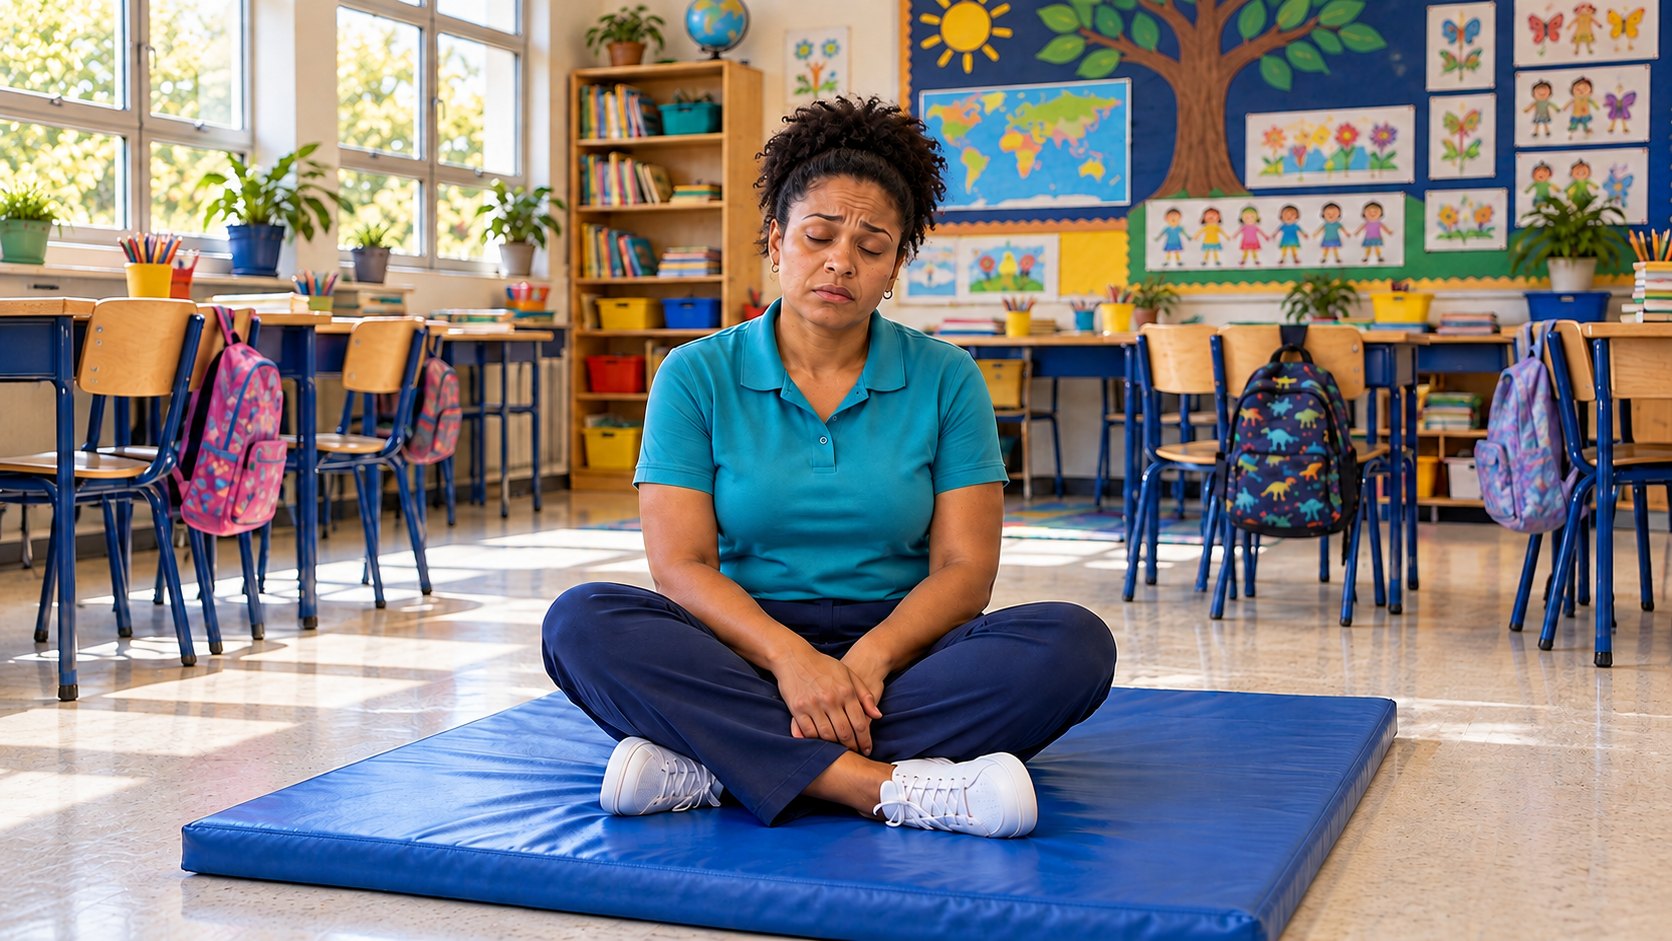
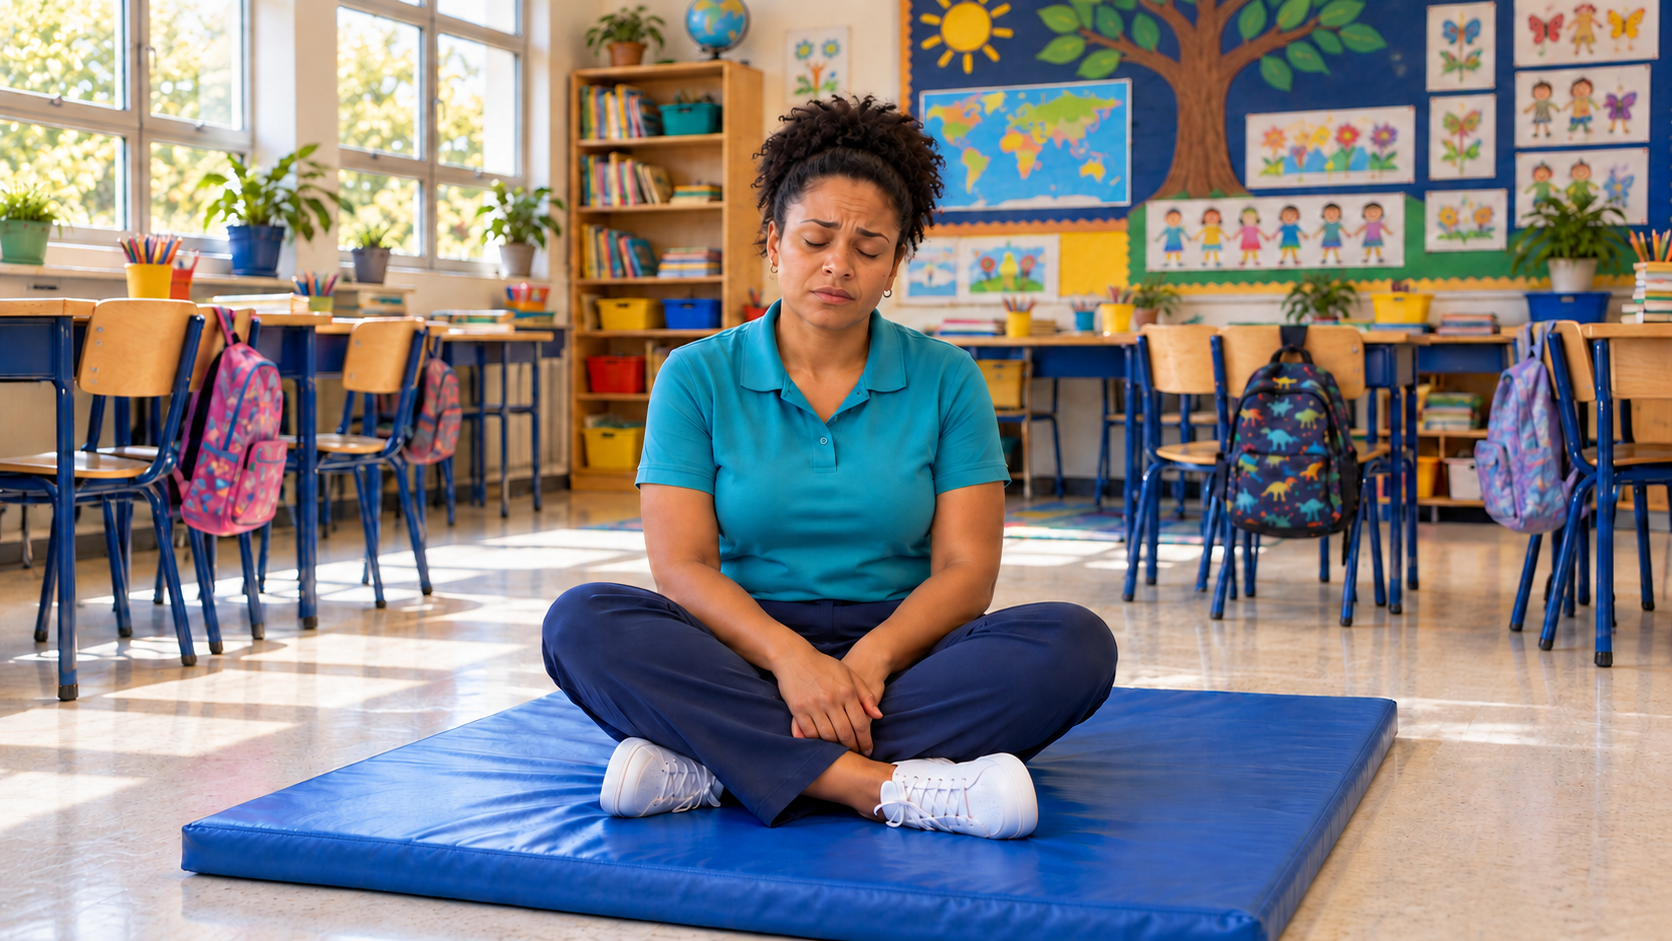
Refine teacher face and align school patient eyelids

diff --git a/public/simulador/personagens/escola-horizontal-v20261023/todos.html b/public/simulador/personagens/escola-horizontal-v20261023/todos.html
@@ -86,13 +86,13 @@
       <article class="card" data-group="adultos" data-pose="sentada"><div class="card-head"><div><h2>Professora</h2><p>Equipe pedagógica</p></div><span class="pose-tag">Sentada</span></div><div class="patient" style="--chest-x:49%;--chest-y:48%;--chest-rx:12%;--chest-ry:10%;--eye-left-x:48.7%;--eye-left-y:25.4%;--eye-right-x:51.7%;--eye-right-y:25.7%;--eye-rx:2.5%;--eye-ry:2.4%;--blink-delay:-0.2s"><img src="professora-sentada.png" alt="Professora sentada na sala de aula"><img class="chest" src="professora-sentada.png" alt="" aria-hidden="true"><img class="blink" src="blink/professora-sentada-olhos-fechados.png" alt="" aria-hidden="true"></div><div class="card-controls"><button type="button" data-command="pause">Ⅱ Pausar</button><button type="button" data-command="breath" aria-pressed="true">Pausar respiração</button><button type="button" data-command="blink" aria-pressed="true">Pausar piscadas</button><button type="button" data-command="blink-now">Piscar agora</button><button type="button" data-command="eyes" aria-pressed="false">Manter olhos fechados</button><span class="command-state">Controle individual pronto</span></div></article>
       <article class="card" data-group="adultos" data-pose="deitada"><div class="card-head"><div><h2>Professora</h2><p>Equipe pedagógica</p></div><span class="pose-tag">Deitada</span></div><div class="patient" style="--chest-x:47%;--chest-y:40%;--chest-rx:14%;--chest-ry:9%;--eye-left-x:42.5%;--eye-left-y:21.8%;--eye-right-x:45.5%;--eye-right-y:20%;--eye-rx:2.6%;--eye-ry:2.5%;--blink-delay:-1.1s"><img src="professora-deitada.png" alt="Professora deitada no colchonete escolar"><img class="chest" src="professora-deitada.png" alt="" aria-hidden="true"><img class="blink" src="blink/professora-deitada-olhos-fechados.png" alt="" aria-hidden="true"></div><div class="card-controls"><button type="button" data-command="pause">Ⅱ Pausar</button><button type="button" data-command="breath" aria-pressed="true">Pausar respiração</button><button type="button" data-command="blink" aria-pressed="true">Pausar piscadas</button><button type="button" data-command="blink-now">Piscar agora</button><button type="button" data-command="eyes" aria-pressed="false">Manter olhos fechados</button><span class="command-state">Controle individual pronto</span></div></article>
       <article class="card" data-group="adultos" data-pose="sentada"><div class="card-head"><div><h2>Zelador</h2><p>Equipe de apoio</p></div><span class="pose-tag">Sentado</span></div><div class="patient" style="--chest-x:49%;--chest-y:43%;--chest-rx:13%;--chest-ry:10%;--eye-left-x:46.3%;--eye-left-y:21%;--eye-right-x:49%;--eye-right-y:20.7%;--eye-rx:2.5%;--eye-ry:2.5%;--blink-delay:-2s"><img src="zelador-sentado.png" alt="Zelador sentado no corredor escolar"><img class="chest" src="zelador-sentado.png" alt="" aria-hidden="true"><img class="blink" src="blink/zelador-sentado-olhos-fechados.png" alt="" aria-hidden="true"></div><div class="card-controls"><button type="button" data-command="pause">Ⅱ Pausar</button><button type="button" data-command="breath" aria-pressed="true">Pausar respiração</button><button type="button" data-command="blink" aria-pressed="true">Pausar piscadas</button><button type="button" data-command="blink-now">Piscar agora</button><button type="button" data-command="eyes" aria-pressed="false">Manter olhos fechados</button><span class="command-state">Controle individual pronto</span></div></article>
-      <article class="card" data-group="adultos" data-pose="deitada"><div class="card-head"><div><h2>Zelador</h2><p>Equipe de apoio</p></div><span class="pose-tag">Deitado</span></div><div class="patient" style="--chest-x:49%;--chest-y:41%;--chest-rx:14%;--chest-ry:9%;--eye-left-x:44.2%;--eye-left-y:22.8%;--eye-right-x:47.1%;--eye-right-y:21.8%;--eye-rx:3.5%;--eye-ry:3.2%;--blink-delay:-2.9s"><img src="zelador-deitado.png" alt="Zelador deitado no corredor escolar"><img class="chest" src="zelador-deitado.png" alt="" aria-hidden="true"><img class="blink" src="blink/zelador-deitado-olhos-fechados.png" alt="" aria-hidden="true"></div><div class="card-controls"><button type="button" data-command="pause">Ⅱ Pausar</button><button type="button" data-command="breath" aria-pressed="true">Pausar respiração</button><button type="button" data-command="blink" aria-pressed="true">Pausar piscadas</button><button type="button" data-command="blink-now">Piscar agora</button><button type="button" data-command="eyes" aria-pressed="false">Manter olhos fechados</button><span class="command-state">Controle individual pronto</span></div></article>
+      <article class="card" data-group="adultos" data-pose="deitada"><div class="card-head"><div><h2>Zelador</h2><p>Equipe de apoio</p></div><span class="pose-tag">Deitado</span></div><div class="patient" style="--chest-x:49%;--chest-y:41%;--chest-rx:14%;--chest-ry:9%;--eye-left-x:44.2%;--eye-left-y:25.4%;--eye-right-x:47.1%;--eye-right-y:24.4%;--eye-rx:3.5%;--eye-ry:3.2%;--blink-delay:-2.9s"><img src="zelador-deitado.png" alt="Zelador deitado no corredor escolar"><img class="chest" src="zelador-deitado.png" alt="" aria-hidden="true"><img class="blink" src="blink/zelador-deitado-olhos-fechados.png" alt="" aria-hidden="true"></div><div class="card-controls"><button type="button" data-command="pause">Ⅱ Pausar</button><button type="button" data-command="breath" aria-pressed="true">Pausar respiração</button><button type="button" data-command="blink" aria-pressed="true">Pausar piscadas</button><button type="button" data-command="blink-now">Piscar agora</button><button type="button" data-command="eyes" aria-pressed="false">Manter olhos fechados</button><span class="command-state">Controle individual pronto</span></div></article>
       <article class="card" data-group="criancas" data-pose="sentada"><div class="card-head"><div><h2>Criança menina</h2><p>Idade escolar</p></div><span class="pose-tag">Sentada</span></div><div class="patient" style="--chest-x:50%;--chest-y:48%;--chest-rx:10%;--chest-ry:9%;--eye-left-x:48.3%;--eye-left-y:29.6%;--eye-right-x:52%;--eye-right-y:29%;--eye-rx:2.5%;--eye-ry:2.5%;--blink-delay:-3.7s"><img src="crianca-menina-sentada.png" alt="Criança menina sentada na sala de aula"><img class="chest" src="crianca-menina-sentada.png" alt="" aria-hidden="true"><img class="blink" src="blink/crianca-menina-sentada-olhos-fechados.png" alt="" aria-hidden="true"></div><div class="card-controls"><button type="button" data-command="pause">Ⅱ Pausar</button><button type="button" data-command="breath" aria-pressed="true">Pausar respiração</button><button type="button" data-command="blink" aria-pressed="true">Pausar piscadas</button><button type="button" data-command="blink-now">Piscar agora</button><button type="button" data-command="eyes" aria-pressed="false">Manter olhos fechados</button><span class="command-state">Controle individual pronto</span></div></article>
       <article class="card" data-group="criancas" data-pose="deitada"><div class="card-head"><div><h2>Criança menina</h2><p>Idade escolar</p></div><span class="pose-tag">Deitada</span></div><div class="patient" style="--chest-x:50%;--chest-y:49%;--chest-rx:12%;--chest-ry:8%;--eye-left-x:45.9%;--eye-left-y:38.4%;--eye-right-x:49.1%;--eye-right-y:36.5%;--eye-rx:2.6%;--eye-ry:2.6%;--blink-delay:-4.5s"><img src="crianca-menina-deitada.png" alt="Criança menina deitada na sala de atividades"><img class="chest" src="crianca-menina-deitada.png" alt="" aria-hidden="true"><img class="blink" src="blink/crianca-menina-deitada-olhos-fechados.png" alt="" aria-hidden="true"></div><div class="card-controls"><button type="button" data-command="pause">Ⅱ Pausar</button><button type="button" data-command="breath" aria-pressed="true">Pausar respiração</button><button type="button" data-command="blink" aria-pressed="true">Pausar piscadas</button><button type="button" data-command="blink-now">Piscar agora</button><button type="button" data-command="eyes" aria-pressed="false">Manter olhos fechados</button><span class="command-state">Controle individual pronto</span></div></article>
       <article class="card" data-group="criancas" data-pose="sentada"><div class="card-head"><div><h2>Criança menino</h2><p>Idade escolar</p></div><span class="pose-tag">Sentado</span></div><div class="patient" style="--chest-x:49%;--chest-y:49%;--chest-rx:11%;--chest-ry:9%;--eye-left-x:48.7%;--eye-left-y:32.1%;--eye-right-x:52.1%;--eye-right-y:32.4%;--eye-rx:2.5%;--eye-ry:2.4%;--blink-delay:-5.3s"><img src="crianca-menino-sentado.png" alt="Criança menino sentado na sala de aula"><img class="chest" src="crianca-menino-sentado.png" alt="" aria-hidden="true"><img class="blink" src="blink/crianca-menino-sentado-olhos-fechados.png" alt="" aria-hidden="true"></div><div class="card-controls"><button type="button" data-command="pause">Ⅱ Pausar</button><button type="button" data-command="breath" aria-pressed="true">Pausar respiração</button><button type="button" data-command="blink" aria-pressed="true">Pausar piscadas</button><button type="button" data-command="blink-now">Piscar agora</button><button type="button" data-command="eyes" aria-pressed="false">Manter olhos fechados</button><span class="command-state">Controle individual pronto</span></div></article>
       <article class="card" data-group="criancas" data-pose="deitada"><div class="card-head"><div><h2>Criança menino</h2><p>Idade escolar</p></div><span class="pose-tag">Deitado</span></div><div class="patient" style="--chest-x:46%;--chest-y:49%;--chest-rx:14%;--chest-ry:9%;--eye-left-x:39.9%;--eye-left-y:33.8%;--eye-right-x:42.8%;--eye-right-y:32.3%;--eye-rx:2.6%;--eye-ry:2.5%;--blink-delay:-1.6s"><img src="crianca-menino-deitado.png" alt="Criança menino deitado na sala de atividades"><img class="chest" src="crianca-menino-deitado.png" alt="" aria-hidden="true"><img class="blink" src="blink/crianca-menino-deitado-olhos-fechados.png" alt="" aria-hidden="true"></div><div class="card-controls"><button type="button" data-command="pause">Ⅱ Pausar</button><button type="button" data-command="breath" aria-pressed="true">Pausar respiração</button><button type="button" data-command="blink" aria-pressed="true">Pausar piscadas</button><button type="button" data-command="blink-now">Piscar agora</button><button type="button" data-command="eyes" aria-pressed="false">Manter olhos fechados</button><span class="command-state">Controle individual pronto</span></div></article>
       <article class="card" data-group="criancas" data-pose="sentada"><div class="card-head"><div><h2>Bebê</h2><p>Lactente</p></div><span class="pose-tag">Sentado</span></div><div class="patient" style="--chest-x:50%;--chest-y:52%;--chest-rx:11%;--chest-ry:10%;--eye-left-x:45.4%;--eye-left-y:30.1%;--eye-right-x:50%;--eye-right-y:29.2%;--eye-rx:2.9%;--eye-ry:2.7%;--blink-delay:-3.2s"><img src="bebe-sentado.png" alt="Bebê sentado na sala de atividades"><img class="chest" src="bebe-sentado.png" alt="" aria-hidden="true"><img class="blink" src="blink/bebe-sentado-olhos-fechados.png" alt="" aria-hidden="true"></div><div class="card-controls"><button type="button" data-command="pause">Ⅱ Pausar</button><button type="button" data-command="breath" aria-pressed="true">Pausar respiração</button><button type="button" data-command="blink" aria-pressed="true">Pausar piscadas</button><button type="button" data-command="blink-now">Piscar agora</button><button type="button" data-command="eyes" aria-pressed="false">Manter olhos fechados</button><span class="command-state">Controle individual pronto</span></div></article>
-      <article class="card" data-group="criancas" data-pose="deitada"><div class="card-head"><div><h2>Bebê</h2><p>Lactente</p></div><span class="pose-tag">Deitado</span></div><div class="patient" style="--chest-x:50%;--chest-y:58%;--chest-rx:14%;--chest-ry:9%;--eye-left-x:44.3%;--eye-left-y:41.4%;--eye-right-x:47.5%;--eye-right-y:39.8%;--eye-rx:2.9%;--eye-ry:2.7%;--blink-delay:-4.8s"><img src="bebe-deitado.png" alt="Bebê deitado na sala de atividades"><img class="chest" src="bebe-deitado.png" alt="" aria-hidden="true"><img class="blink" src="blink/bebe-deitado-olhos-fechados.png" alt="" aria-hidden="true"></div><div class="card-controls"><button type="button" data-command="pause">Ⅱ Pausar</button><button type="button" data-command="breath" aria-pressed="true">Pausar respiração</button><button type="button" data-command="blink" aria-pressed="true">Pausar piscadas</button><button type="button" data-command="blink-now">Piscar agora</button><button type="button" data-command="eyes" aria-pressed="false">Manter olhos fechados</button><span class="command-state">Controle individual pronto</span></div></article>
+      <article class="card" data-group="criancas" data-pose="deitada"><div class="card-head"><div><h2>Bebê</h2><p>Lactente</p></div><span class="pose-tag">Deitado</span></div><div class="patient" style="--chest-x:50%;--chest-y:58%;--chest-rx:14%;--chest-ry:9%;--eye-left-x:42.8%;--eye-left-y:41.4%;--eye-right-x:47.5%;--eye-right-y:39.8%;--eye-rx:2.9%;--eye-ry:2.7%;--blink-delay:-4.8s"><img src="bebe-deitado.png" alt="Bebê deitado na sala de atividades"><img class="chest" src="bebe-deitado.png" alt="" aria-hidden="true"><img class="blink" src="blink/bebe-deitado-olhos-fechados.png" alt="" aria-hidden="true"></div><div class="card-controls"><button type="button" data-command="pause">Ⅱ Pausar</button><button type="button" data-command="breath" aria-pressed="true">Pausar respiração</button><button type="button" data-command="blink" aria-pressed="true">Pausar piscadas</button><button type="button" data-command="blink-now">Piscar agora</button><button type="button" data-command="eyes" aria-pressed="false">Manter olhos fechados</button><span class="command-state">Controle individual pronto</span></div></article>
     </section>
   </main>
   <script>

diff --git a/src/components/simulator/SchoolPatientGallery.tsx b/src/components/simulator/SchoolPatientGallery.tsx
@@ -38,7 +38,7 @@ const schoolPatients = [
       deitada: {
         open: '/simulador/personagens/escola-horizontal-v20261023/zelador-deitado.png',
         closed: '/simulador/personagens/escola-horizontal-v20261023/blink/zelador-deitado-olhos-fechados.png',
-        chest: { x: 49, y: 41, rx: 14, ry: 9 }, eyes: { left: { x: 44.2, y: 22.8 }, right: { x: 47.1, y: 21.8 }, rx: 3.5, ry: 3.2 }
+        chest: { x: 49, y: 41, rx: 14, ry: 9 }, eyes: { left: { x: 44.2, y: 25.4 }, right: { x: 47.1, y: 24.4 }, rx: 3.5, ry: 3.2 }
       }
     }
   },
@@ -92,7 +92,7 @@ const schoolPatients = [
       deitada: {
         open: '/simulador/personagens/escola-horizontal-v20261023/bebe-deitado.png',
         closed: '/simulador/personagens/escola-horizontal-v20261023/blink/bebe-deitado-olhos-fechados.png',
-        chest: { x: 50, y: 58, rx: 14, ry: 9 }, eyes: { left: { x: 44.3, y: 41.4 }, right: { x: 47.5, y: 39.8 }, rx: 2.9, ry: 2.7 }
+        chest: { x: 50, y: 58, rx: 14, ry: 9 }, eyes: { left: { x: 42.8, y: 41.4 }, right: { x: 47.5, y: 39.8 }, rx: 2.9, ry: 2.7 }
       }
     }
   }

diff --git a/public/simulador/personagens/escola-horizontal-v20261023/zelador-deitado.html b/public/simulador/personagens/escola-horizontal-v20261023/zelador-deitado.html
@@ -11,7 +11,7 @@
   <main>
     <h1>Zelador deitado</h1>
     <figure>
-      <div class="patient" style="--chest-x:49%;--chest-y:41%;--chest-rx:14%;--chest-ry:9%;--eye-left-x:44.2%;--eye-left-y:22.8%;--eye-right-x:47.1%;--eye-right-y:21.8%;--eye-rx:3.5%;--eye-ry:3.2%;--blink-delay:-2.9s">
+      <div class="patient" style="--chest-x:49%;--chest-y:41%;--chest-rx:14%;--chest-ry:9%;--eye-left-x:44.2%;--eye-left-y:25.4%;--eye-right-x:47.1%;--eye-right-y:24.4%;--eye-rx:3.5%;--eye-ry:3.2%;--blink-delay:-2.9s">
         <img src="zelador-deitado.png" alt="Zelador deitado no ambiente escolar">
         <img src="zelador-deitado.png" alt="" aria-hidden="true" class="chest">
         <img src="blink/zelador-deitado-olhos-fechados.png" alt="" aria-hidden="true" class="blink">

diff --git a/public/simulador/personagens/escola-horizontal-v20261023/bebe-deitado.html b/public/simulador/personagens/escola-horizontal-v20261023/bebe-deitado.html
@@ -11,7 +11,7 @@
   <main>
     <h1>Bebê deitado</h1>
     <figure>
-      <div class="patient" style="--chest-x:50%;--chest-y:58%;--chest-rx:14%;--chest-ry:9%;--eye-left-x:44.3%;--eye-left-y:41.4%;--eye-right-x:47.5%;--eye-right-y:39.8%;--eye-rx:2.9%;--eye-ry:2.7%;--blink-delay:-4.8s">
+      <div class="patient" style="--chest-x:50%;--chest-y:58%;--chest-rx:14%;--chest-ry:9%;--eye-left-x:42.8%;--eye-left-y:41.4%;--eye-right-x:47.5%;--eye-right-y:39.8%;--eye-rx:2.9%;--eye-ry:2.7%;--blink-delay:-4.8s">
         <img src="bebe-deitado.png" alt="Bebê deitado no ambiente escolar">
         <img src="bebe-deitado.png" alt="" aria-hidden="true" class="chest">
         <img src="blink/bebe-deitado-olhos-fechados.png" alt="" aria-hidden="true" class="blink">
